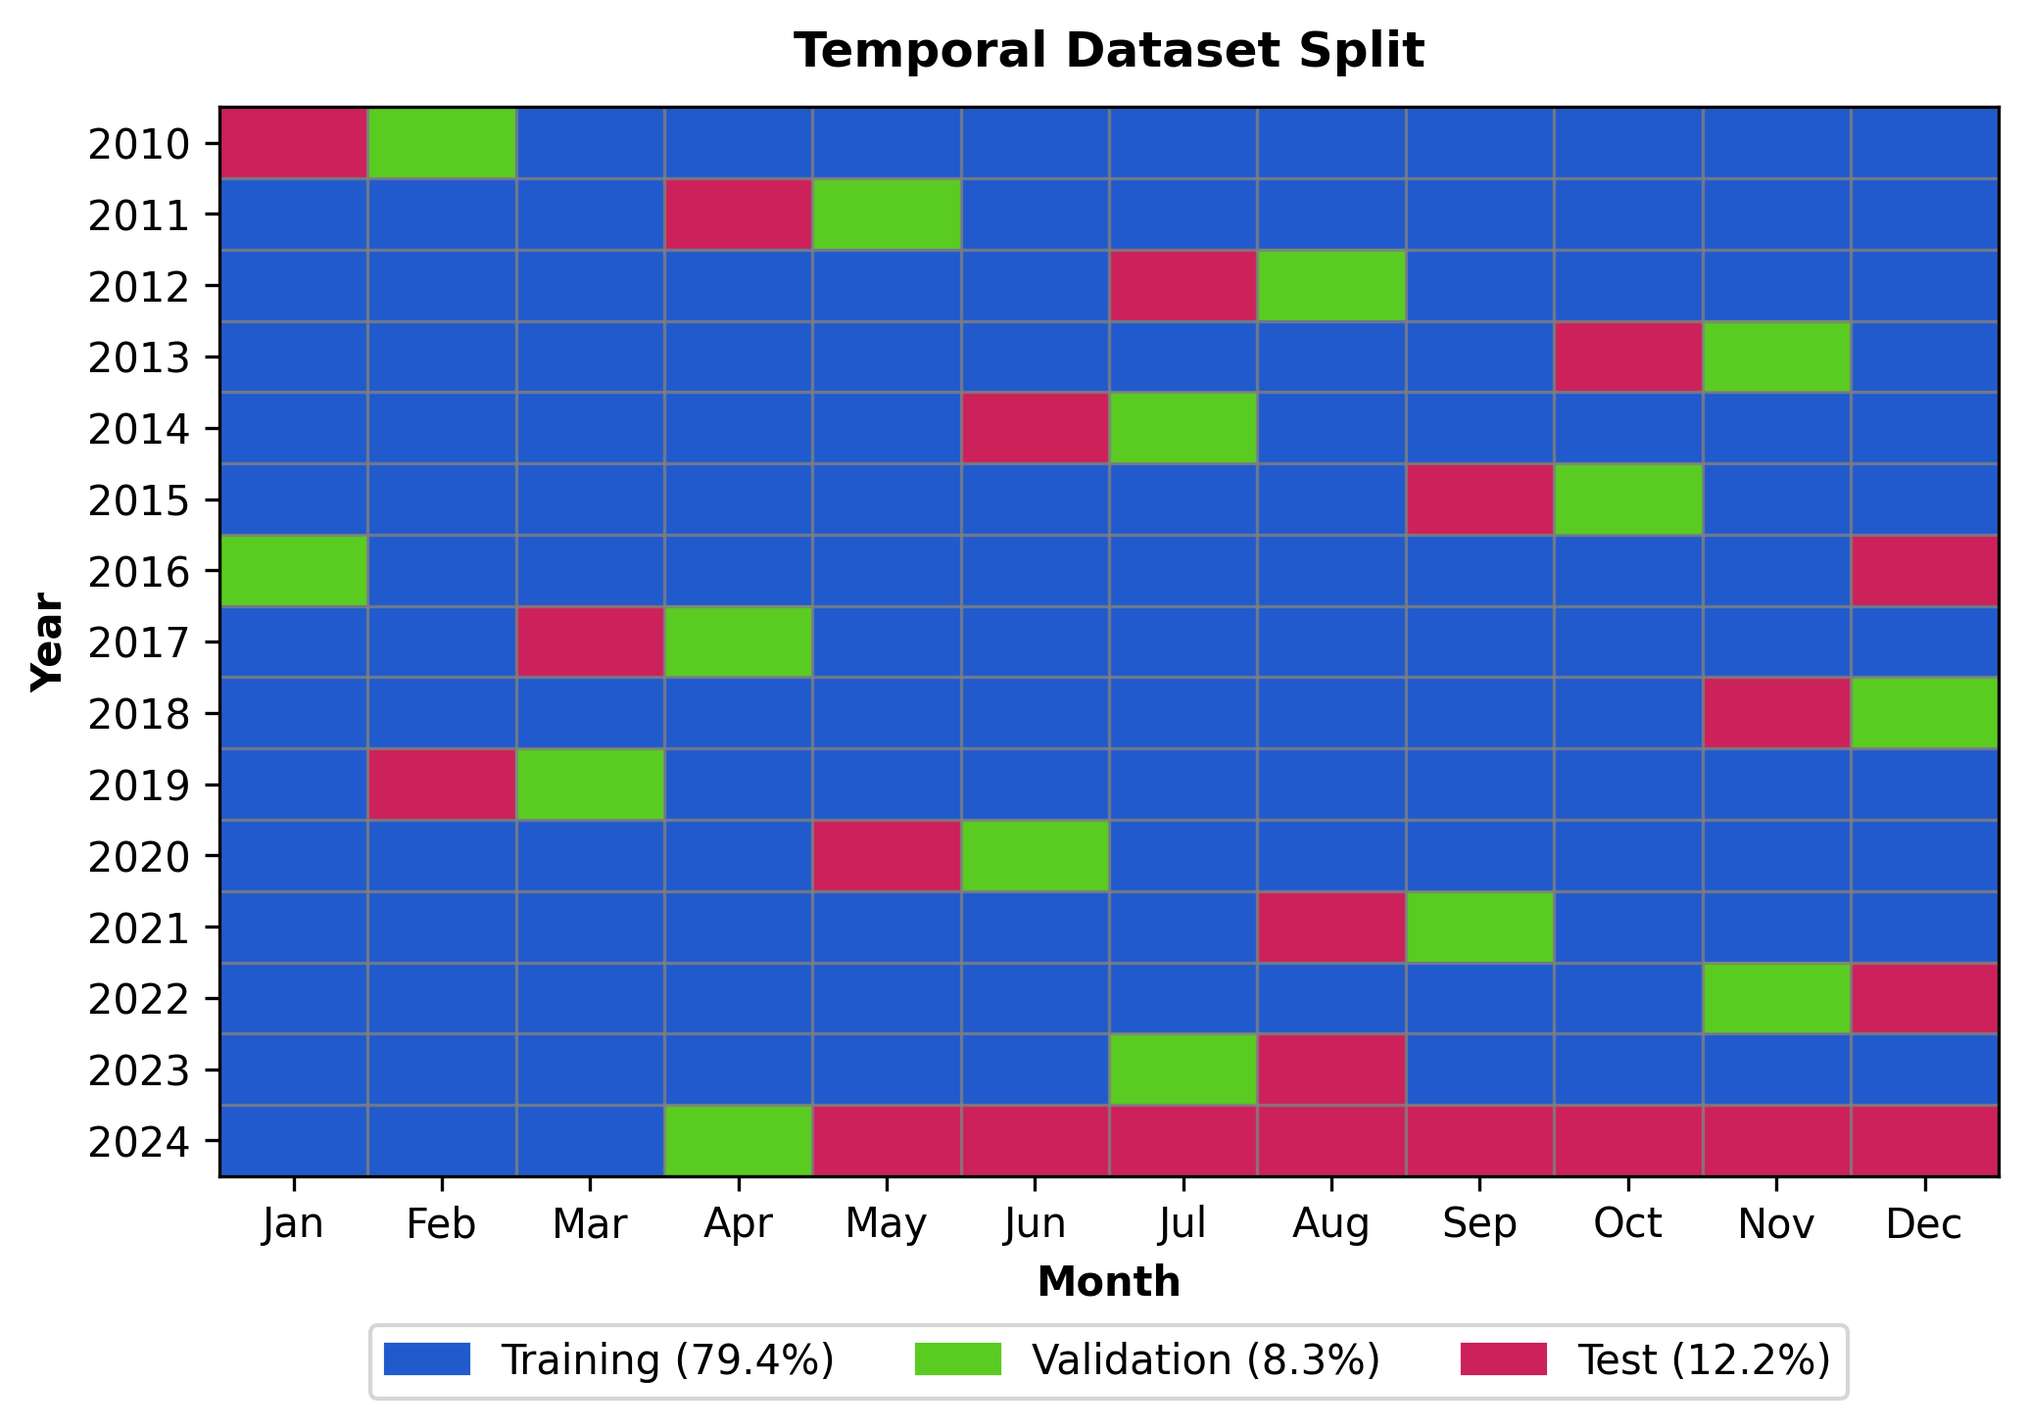
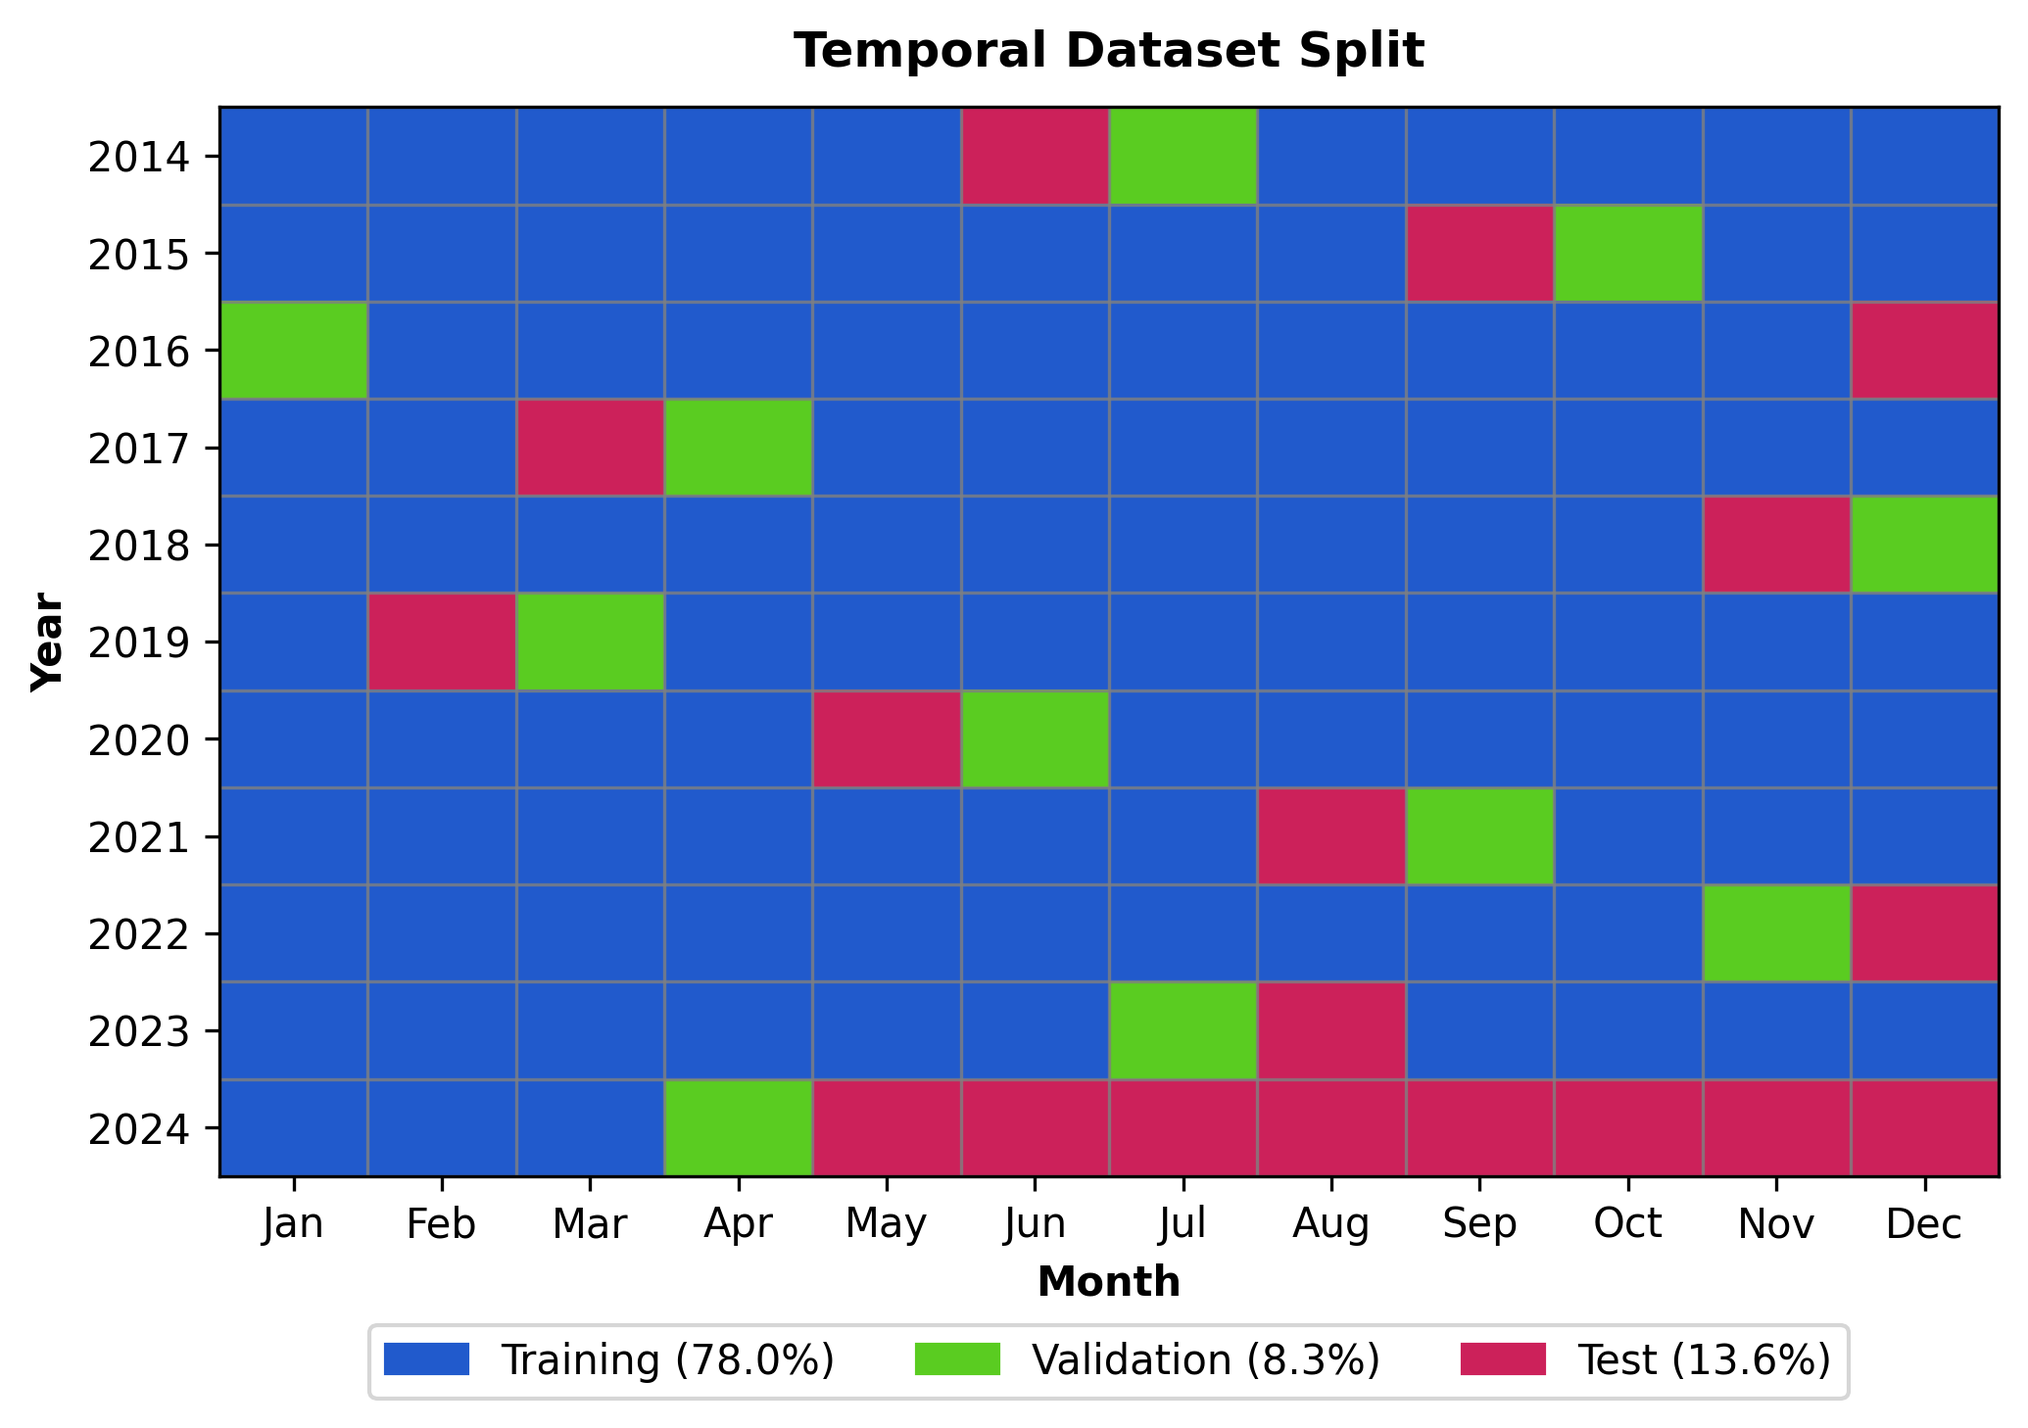
adjusted tempral split plot for paper and included cli multiday safequards for efficient processing

diff --git a/src/multiday_evaluation.py b/src/multiday_evaluation.py
@@ -38,6 +38,39 @@ from main import main as run_main_training
 from compare_stec_vtec_gim import main as run_main_comparison
 # from inference_positioning import main as run_main_positioning # TODO: refactor inference_positioning.py first
 
+class LogFilter:
+    """Filter out lines starting with specific prefixes from stream."""
+    def __init__(self, stream, ignore_prefixes):
+        self.stream = stream
+        self.ignore_prefixes = ignore_prefixes
+
+    def write(self, data):
+        # Handle empty writes
+        if not data:
+            return
+
+        # Quick check for exact match start (optimization)
+        if any(data.lstrip().startswith(p) for p in self.ignore_prefixes):
+            return
+            
+        # Line-by-line check for multiline writes
+        # Use splitlines(keepends=True) to preserve formatting
+        # Note: if data is just a partial line (no newline), this logic still works for simple cases,
+        # but sophisticated stream filtering would require buffering. 
+        # For standard print/tqdm output, this often suffices.
+        if '\n' in data or '\r' in data:
+            lines = data.splitlines(keepends=True)
+            for line in lines:
+                if not any(line.lstrip().startswith(p) for p in self.ignore_prefixes):
+                    self.stream.write(line)
+        else:
+            # Single chunk without newline
+            if not any(data.lstrip().startswith(p) for p in self.ignore_prefixes):
+                self.stream.write(data)
+
+    def flush(self):
+        self.stream.flush()
+
 @contextmanager
 def capture_execution(log_file_path):
     """
@@ -56,16 +89,20 @@ def capture_execution(log_file_path):
     
     root_logger.addHandler(file_handler)
     
-    # 2. Redirect stdout/stderr
-    with open(log_file_path, 'a') as f, redirect_stdout(f), redirect_stderr(f):
-        try:
-            yield
-        finally:
-            # Restore logging
-            root_logger.removeHandler(file_handler)
-            for h in original_handlers:
-                root_logger.addHandler(h)
-            file_handler.close()
+    # 2. Redirect stdout/stderr with filtering
+    with open(log_file_path, 'a') as f:
+        # Filter out tqdm updates for Bayesian Inference specifically
+        filtered_stream = LogFilter(f, ignore_prefixes=["Bayesian Inference :", "Bayesian Inference:"])
+        
+        with redirect_stdout(filtered_stream), redirect_stderr(filtered_stream):
+            try:
+                yield
+            finally:
+                # Restore logging
+                root_logger.removeHandler(file_handler)
+                for h in original_handlers:
+                    root_logger.addHandler(h)
+                file_handler.close()
 
 logging.basicConfig(level=logging.INFO, format="%(asctime)s - %(levelname)s - %(message)s")
 logger = logging.getLogger(__name__)
@@ -1004,6 +1041,8 @@ Date formats supported:
                        help="Skip training, only run evaluation (experiments must exist)")
     parser.add_argument("--skip_comparison", action="store_true",
                        help="Skip comparison evaluation (Step 3)")
+    parser.add_argument("--skip_existing", action="store_true",
+                       help="Skip training if experiment already exists")
     parser.add_argument("--pretrain_folder", type=str, default=None,
                        help="Pretrain experiment folder to use for STEC model (optional, auto-runs pretrain if needed)")
     parser.add_argument("--no_aggregate", action="store_true",
@@ -1103,12 +1142,61 @@ Date formats supported:
                 args.pretrain_folder = pretrain_folder
                 pretrain_folder = args.pretrain_folder
             
+            # Check if all output processing is already done for this day
+            try:
+                # Create temporary configs to check for existence
+                temp_stec_config = create_modified_config(args.stec_config, year, doy, 
+                                                    date_dir, is_vtec=False,
+                                                    pretrain_folder=pretrain_folder)
+                temp_vtec_config = create_modified_config(args.vtec_config, year, doy,
+                                                    date_dir, is_vtec=True)
+                
+                stec_exists, stec_name = check_experiment_exists(temp_stec_config)
+                vtec_exists, vtec_name = check_experiment_exists(temp_vtec_config)
+                
+                # Check for evaluation results
+                eval_dir = date_dir / "evaluation"
+                comparison_log = eval_dir / "comparison.log"
+                # Check primarily for the result file of the first dataset (own_vtec_gim)
+                # We check this specific path because extract_metrics_from_experiment looks here
+                metrics_file = eval_dir / "own_vtec_gim" / "metrics_summary.csv"
+                
+                eval_exists = comparison_log.exists() and metrics_file.exists()
+                
+                if stec_exists and vtec_exists and eval_exists:
+                    # Attempt to load metrics to ensure the run was actually successful/readable where we expect it
+                    metrics = extract_metrics_from_experiment(eval_dir)
+                    if not metrics:
+                         # If metrics dict is empty, the run was incomplete
+                         raise ValueError("Empty metrics extracted")
+
+                    logger.info(f"✓ All steps completed for {date_str}, skipping day.")
+                    result['success'] = True
+                    result['stec_experiment'] = stec_name
+                    result['vtec_experiment'] = vtec_name
+                    result['metrics'] = metrics
+                    batch_results.append(result)
+                    continue
+            except Exception as e:
+                # Fallback to re-running if check fails
+                # logger.debug(f"Day {date_str} not skipped due to: {e}")
+                pass
+
             # Step 1: Train STEC model
             logger.info(f"\n[1/3] Training STEC model for {date_str}")
             stec_config = create_modified_config(args.stec_config, year, doy, 
                                                 date_dir, is_vtec=False,
-                                                pretrain_folder=pretrain_folder)
-            stec_success, stec_exp = run_training(stec_config)
+                                                pretrain_folder=args.pretrain_folder)
+            
+            # Check if STEC experiment already exists
+            stec_exists, stec_exp_name = check_experiment_exists(stec_config)
+            
+            if args.skip_existing and stec_exists:
+                logger.info(f"✓ Found existing STEC experiment: {stec_exp_name}, skipping training")
+                stec_success = True
+                stec_exp = stec_exp_name
+            else:
+                stec_success, stec_exp = run_training(stec_config)
             
             if not stec_success:
                 logger.error(f"✗ STEC training failed for {date_str}, skipping...")
@@ -1125,7 +1213,18 @@ Date formats supported:
             # Check if VTEC experiment already exists to skip redundant training
             vtec_exists, vtec_exp_name = check_experiment_exists(vtec_config)
             
-            if vtec_exists:
+            if (args.skip_existing or True) and vtec_exists: # existing logic always skipped VTEC if existed, keeping that but making it explicit or ensuring skip_existing covers it?
+                # The original code unconditionally skipped VTEC if it existed.
+                # "if vtec_exists:" was the original check.
+                # So I should probably keep it as is, or maybe apply skip_existing to it too?
+                # The user only asked for STEC. But usually skip_existing implies both.
+                # The original code for VTEC was:
+                # if vtec_exists: ...
+                # So it was ALWAYS skipping existing VTEC.
+                # I will touch STEC logic only as requested, but maybe it's better to use the flag for STEC.
+                pass
+
+            if vtec_exists: # Original behavior: always skip existing VTEC
                 logger.info(f"✓ Found existing VTEC experiment: {vtec_exp_name}, skipping training")
                 vtec_success = True
                 vtec_exp = vtec_exp_name

diff --git a/src/data_processing/visualize_temporal_splits.py b/src/data_processing/visualize_temporal_splits.py
@@ -16,6 +16,7 @@ import numpy as np
 import matplotlib.pyplot as plt
 import matplotlib.patches as patches
 from pathlib import Path
+import argparse
 
 
 def load_date_splits():
@@ -30,7 +31,14 @@ def load_date_splits():
     return train_dates, val_dates, test_dates
 
 
-def create_timeline_heatmap(train_dates, val_dates, test_dates, save_path=None):
+def create_timeline_heatmap(
+    train_dates,
+    val_dates,
+    test_dates,
+    save_path=None,
+    start_year=2014,
+    end_year=2024,
+):
     """
     Create a timeline heatmap showing temporal splits.
 
@@ -39,9 +47,11 @@ def create_timeline_heatmap(train_dates, val_dates, test_dates, save_path=None):
         val_dates: Array of validation dates in YYYY-MM format
         test_dates: Array of test dates in YYYY-MM format
         save_path: Optional path to save the figure
+        start_year: Start year for visualization
+        end_year: End year for visualization (inclusive)
     """
     # Create a matrix for the heatmap (years x months)
-    years = range(2010, 2025)  # 2010-2024
+    years = range(start_year, end_year + 1)
     months = range(1, 13)  # Jan-Dec
 
     # Initialize matrix with 0 (no data)
@@ -52,21 +62,21 @@ def create_timeline_heatmap(train_dates, val_dates, test_dates, save_path=None):
     for date_str in train_dates:
         year, month = map(int, date_str.split("-"))
         if year in years:
-            year_idx = year - 2010
+            year_idx = year - start_year
             month_idx = month - 1
             data_matrix[year_idx, month_idx] = 1
 
     for date_str in val_dates:
         year, month = map(int, date_str.split("-"))
         if year in years:
-            year_idx = year - 2010
+            year_idx = year - start_year
             month_idx = month - 1
             data_matrix[year_idx, month_idx] = 2
 
     for date_str in test_dates:
         year, month = map(int, date_str.split("-"))
         if year in years:
-            year_idx = year - 2010
+            year_idx = year - start_year
             month_idx = month - 1
             data_matrix[year_idx, month_idx] = 3
 
@@ -116,10 +126,19 @@ def create_timeline_heatmap(train_dates, val_dates, test_dates, save_path=None):
     ax.tick_params(which="minor", length=0)
 
     # Create custom legend with percentages
-    total_months = len(train_dates) + len(val_dates) + len(test_dates)
-    train_pct = len(train_dates) / total_months * 100
-    val_pct = len(val_dates) / total_months * 100
-    test_pct = len(test_dates) / total_months * 100
+    train_count = np.sum(data_matrix == 1)
+    val_count = np.sum(data_matrix == 2)
+    test_count = np.sum(data_matrix == 3)
+    total_months = train_count + val_count + test_count
+
+    if total_months > 0:
+        train_pct = train_count / total_months * 100
+        val_pct = val_count / total_months * 100
+        test_pct = test_count / total_months * 100
+    else:
+        train_pct = 0.0
+        val_pct = 0.0
+        test_pct = 0.0
 
     legend_elements = [
         patches.Patch(color=colors[1], label=f"Training ({train_pct:.1f}%)"),
@@ -147,10 +166,27 @@ def create_timeline_heatmap(train_dates, val_dates, test_dates, save_path=None):
     return fig, ax
 
 
-def print_split_statistics(train_dates, val_dates, test_dates):
+def print_split_statistics(train_dates, val_dates, test_dates, start_year=None, end_year=None):
     """Print statistics about the temporal splits."""
+    
+    # Filter dates if range provided
+    if start_year is not None and end_year is not None:
+        def filter_dates(dates):
+            res = []
+            for d in dates:
+                y = int(d.split('-')[0])
+                if start_year <= y <= end_year:
+                    res.append(d)
+            return res
+            
+        train_dates = filter_dates(train_dates)
+        val_dates = filter_dates(val_dates)
+        test_dates = filter_dates(test_dates)
+
     print("=" * 60)
     print("TEMPORAL SPLIT STATISTICS")
+    if start_year and end_year:
+        print(f"Range: {start_year} - {end_year}")
     print("=" * 60)
 
     print(f"Training months: {len(train_dates)}")
@@ -161,11 +197,15 @@ def print_split_statistics(train_dates, val_dates, test_dates):
     )
 
     # Year coverage
-    all_dates = list(train_dates) + list(val_dates) + list(test_dates)
-    years_covered = sorted(set([int(date.split("-")[0]) for date in all_dates]))
-    print(
-        f"Years covered: {years_covered[0]}-{years_covered[-1]} ({len(years_covered)} years)"
-    )
+    if len(train_dates) + len(val_dates) + len(test_dates) > 0:
+        all_dates = list(train_dates) + list(val_dates) + list(test_dates)
+        years_covered = sorted(set([int(date.split("-")[0]) for date in all_dates]))
+        print(
+            f"Years covered: {years_covered[0]}-{years_covered[-1]} ({len(years_covered)} years)"
+        )
+    else:
+        print("No data in selected range.")
+        years_covered = []
 
     # Monthly distribution
     print("\nMonthly distribution:")
@@ -217,26 +257,44 @@ def print_split_statistics(train_dates, val_dates, test_dates):
         print(f"  {split_name}:")
         for year in years_covered:
             count = year_counts.get(year, 0)
-            print(f"    {year}: {count:2d}", end="  ")
-            if (year - years_covered[0] + 1) % 5 == 0:
-                print()
-        print()
+            if count > 0:
+                print(f"    {year}: {count:2d}")
 
 
 def main():
     """Main function to create the temporal split visualization."""
+    parser = argparse.ArgumentParser(description="Visualize temporal splits.")
+    parser.add_argument(
+        "--start_year", type=int, default=2014, help="Start year for visualization"
+    )
+    parser.add_argument(
+        "--end_year", type=int, default=2024, help="End year for visualization"
+    )
+    args = parser.parse_args()
+
     print("Loading temporal split data...")
 
     # Load the date splits
     train_dates, val_dates, test_dates = load_date_splits()
 
     # Print statistics
-    print_split_statistics(train_dates, val_dates, test_dates)
+    print_split_statistics(
+        train_dates, val_dates, test_dates, start_year=args.start_year, end_year=args.end_year
+    )
 
     # Create the timeline heatmap
-    print("\nCreating timeline heatmap...")
+    print(
+        f"\nCreating timeline heatmap from {args.start_year} to {args.end_year}..."
+    )
     save_path = Path(__file__).parent / "temporal_splits_heatmap.png"
-    fig, ax = create_timeline_heatmap(train_dates, val_dates, test_dates, save_path)
+    fig, ax = create_timeline_heatmap(
+        train_dates,
+        val_dates,
+        test_dates,
+        save_path,
+        start_year=args.start_year,
+        end_year=args.end_year,
+    )
 
     print("\nVisualization complete!")
     print(f"Heatmap saved as: {save_path}")

diff --git a/cli.py b/cli.py
@@ -339,6 +339,8 @@ Date formats:
                        help="Pretrain experiment folder to use for STEC model (optional)")
     parser.add_argument("--skip_training", action="store_true",
                        help="Skip training, only run evaluation (experiments must exist)")
+    parser.add_argument("--skip_existing", action="store_true",
+                       help="Skip training if experiment already exists")
     parser.add_argument("--no_aggregate", action="store_true",
                        help="Skip aggregate report generation (for parallel execution)")
     parser.add_argument("--summary_only", action="store_true",
@@ -478,6 +480,9 @@ def run_multiday(args):
         
         if args.skip_comparison:
             sys.argv.extend(["--skip_comparison"])
+        
+        if args.skip_existing:
+            sys.argv.extend(["--skip_existing"])
         
         if args.no_aggregate:
             sys.argv.extend(["--no_aggregate"])

diff --git a/src/compare_stec_vtec_gim.py b/src/compare_stec_vtec_gim.py
@@ -624,6 +624,15 @@ def main(args=None):
         
         args = parser.parse_args()
 
+    # CRITICAL: Reset static cache attributes to ensure no cross-contamination between runs
+    # This is necessary when main is called multiple times in the same process (e.g. multiday evaluation)
+    if hasattr(main, '_vtec_model_loaded'):
+        del main._vtec_model_loaded
+    if hasattr(main, '_vtec_config'):
+        del main._vtec_config
+    if hasattr(main, '_vtec_model'):
+        del main._vtec_model
+
     logger = setup_logging()
     
     logger.info("="*70)
